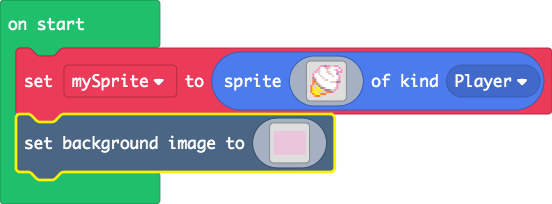
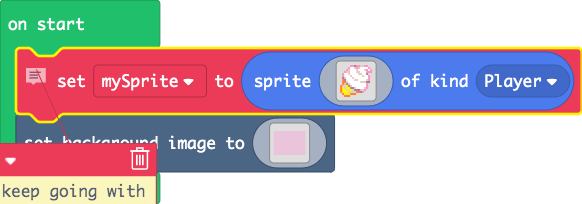
Update main.blocks, main.ts

diff --git a/main.ts b/main.ts
@@ -1,3 +1,4 @@
+// keep going with this!
 let mySprite = sprites.create(img`
 . . . . . 3 3 b 3 3 d d 3 3 . . 
 . . . . 3 1 1 d 3 d 1 1 1 1 3 . 
